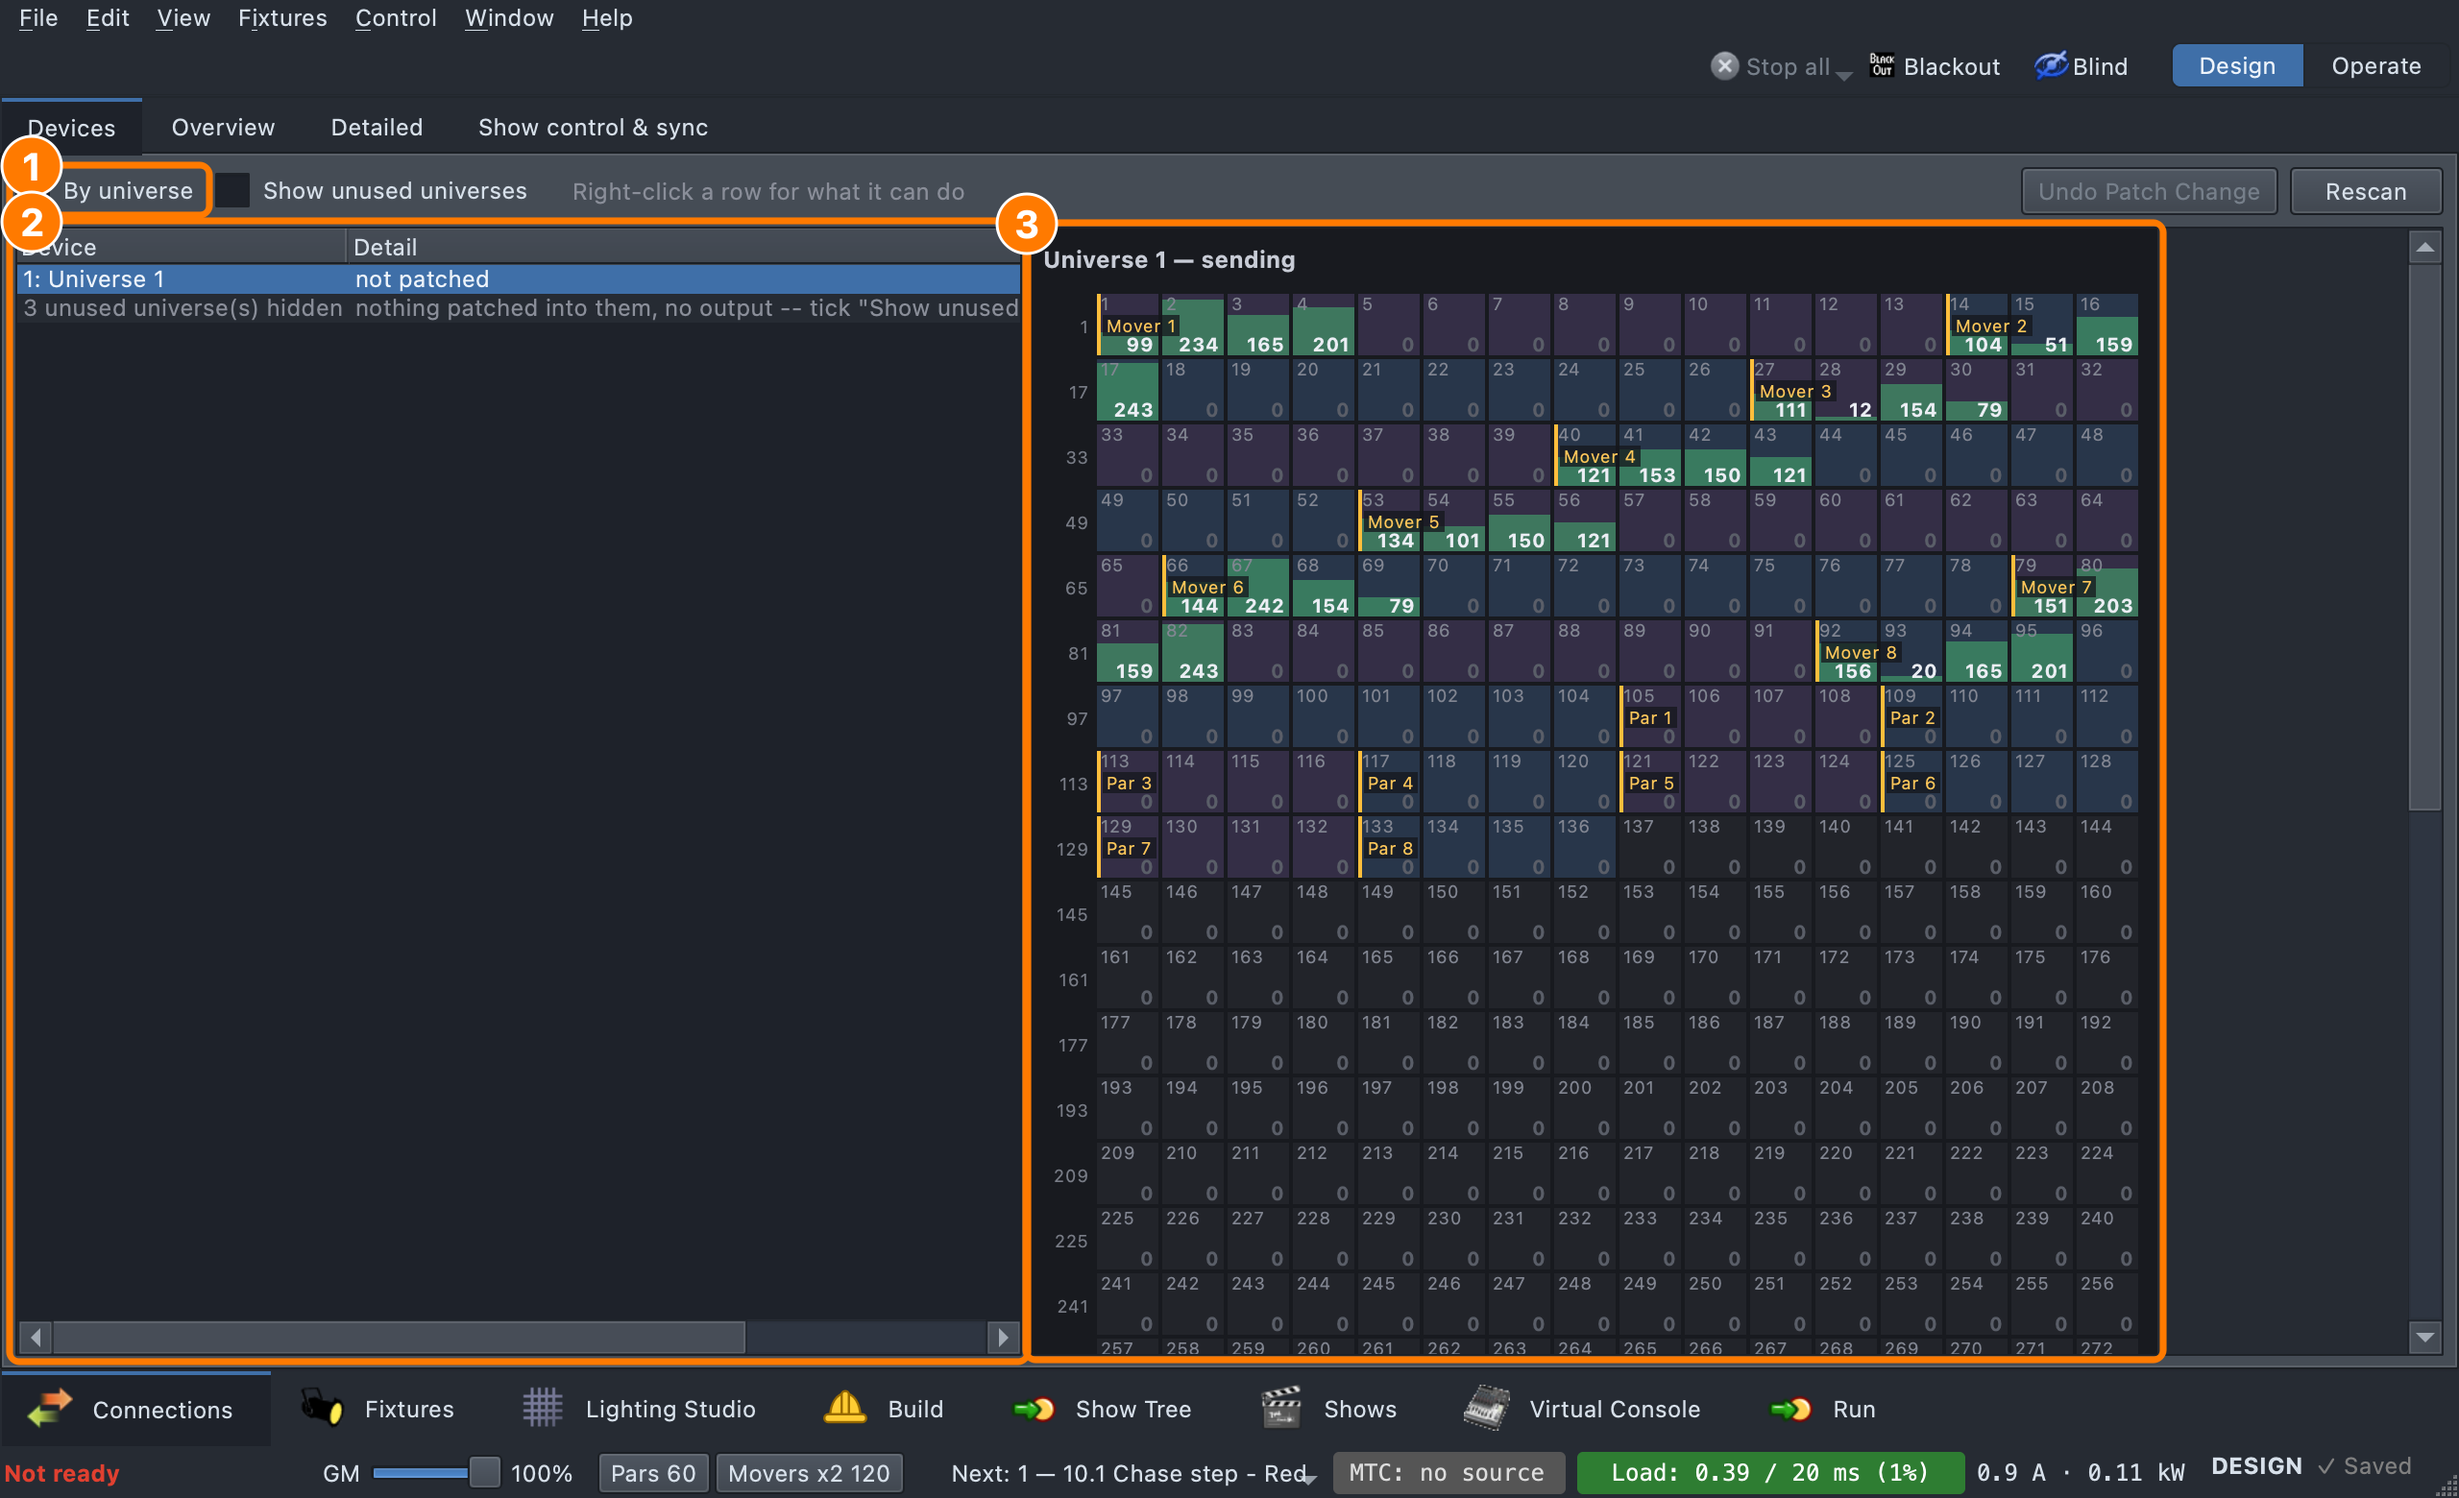
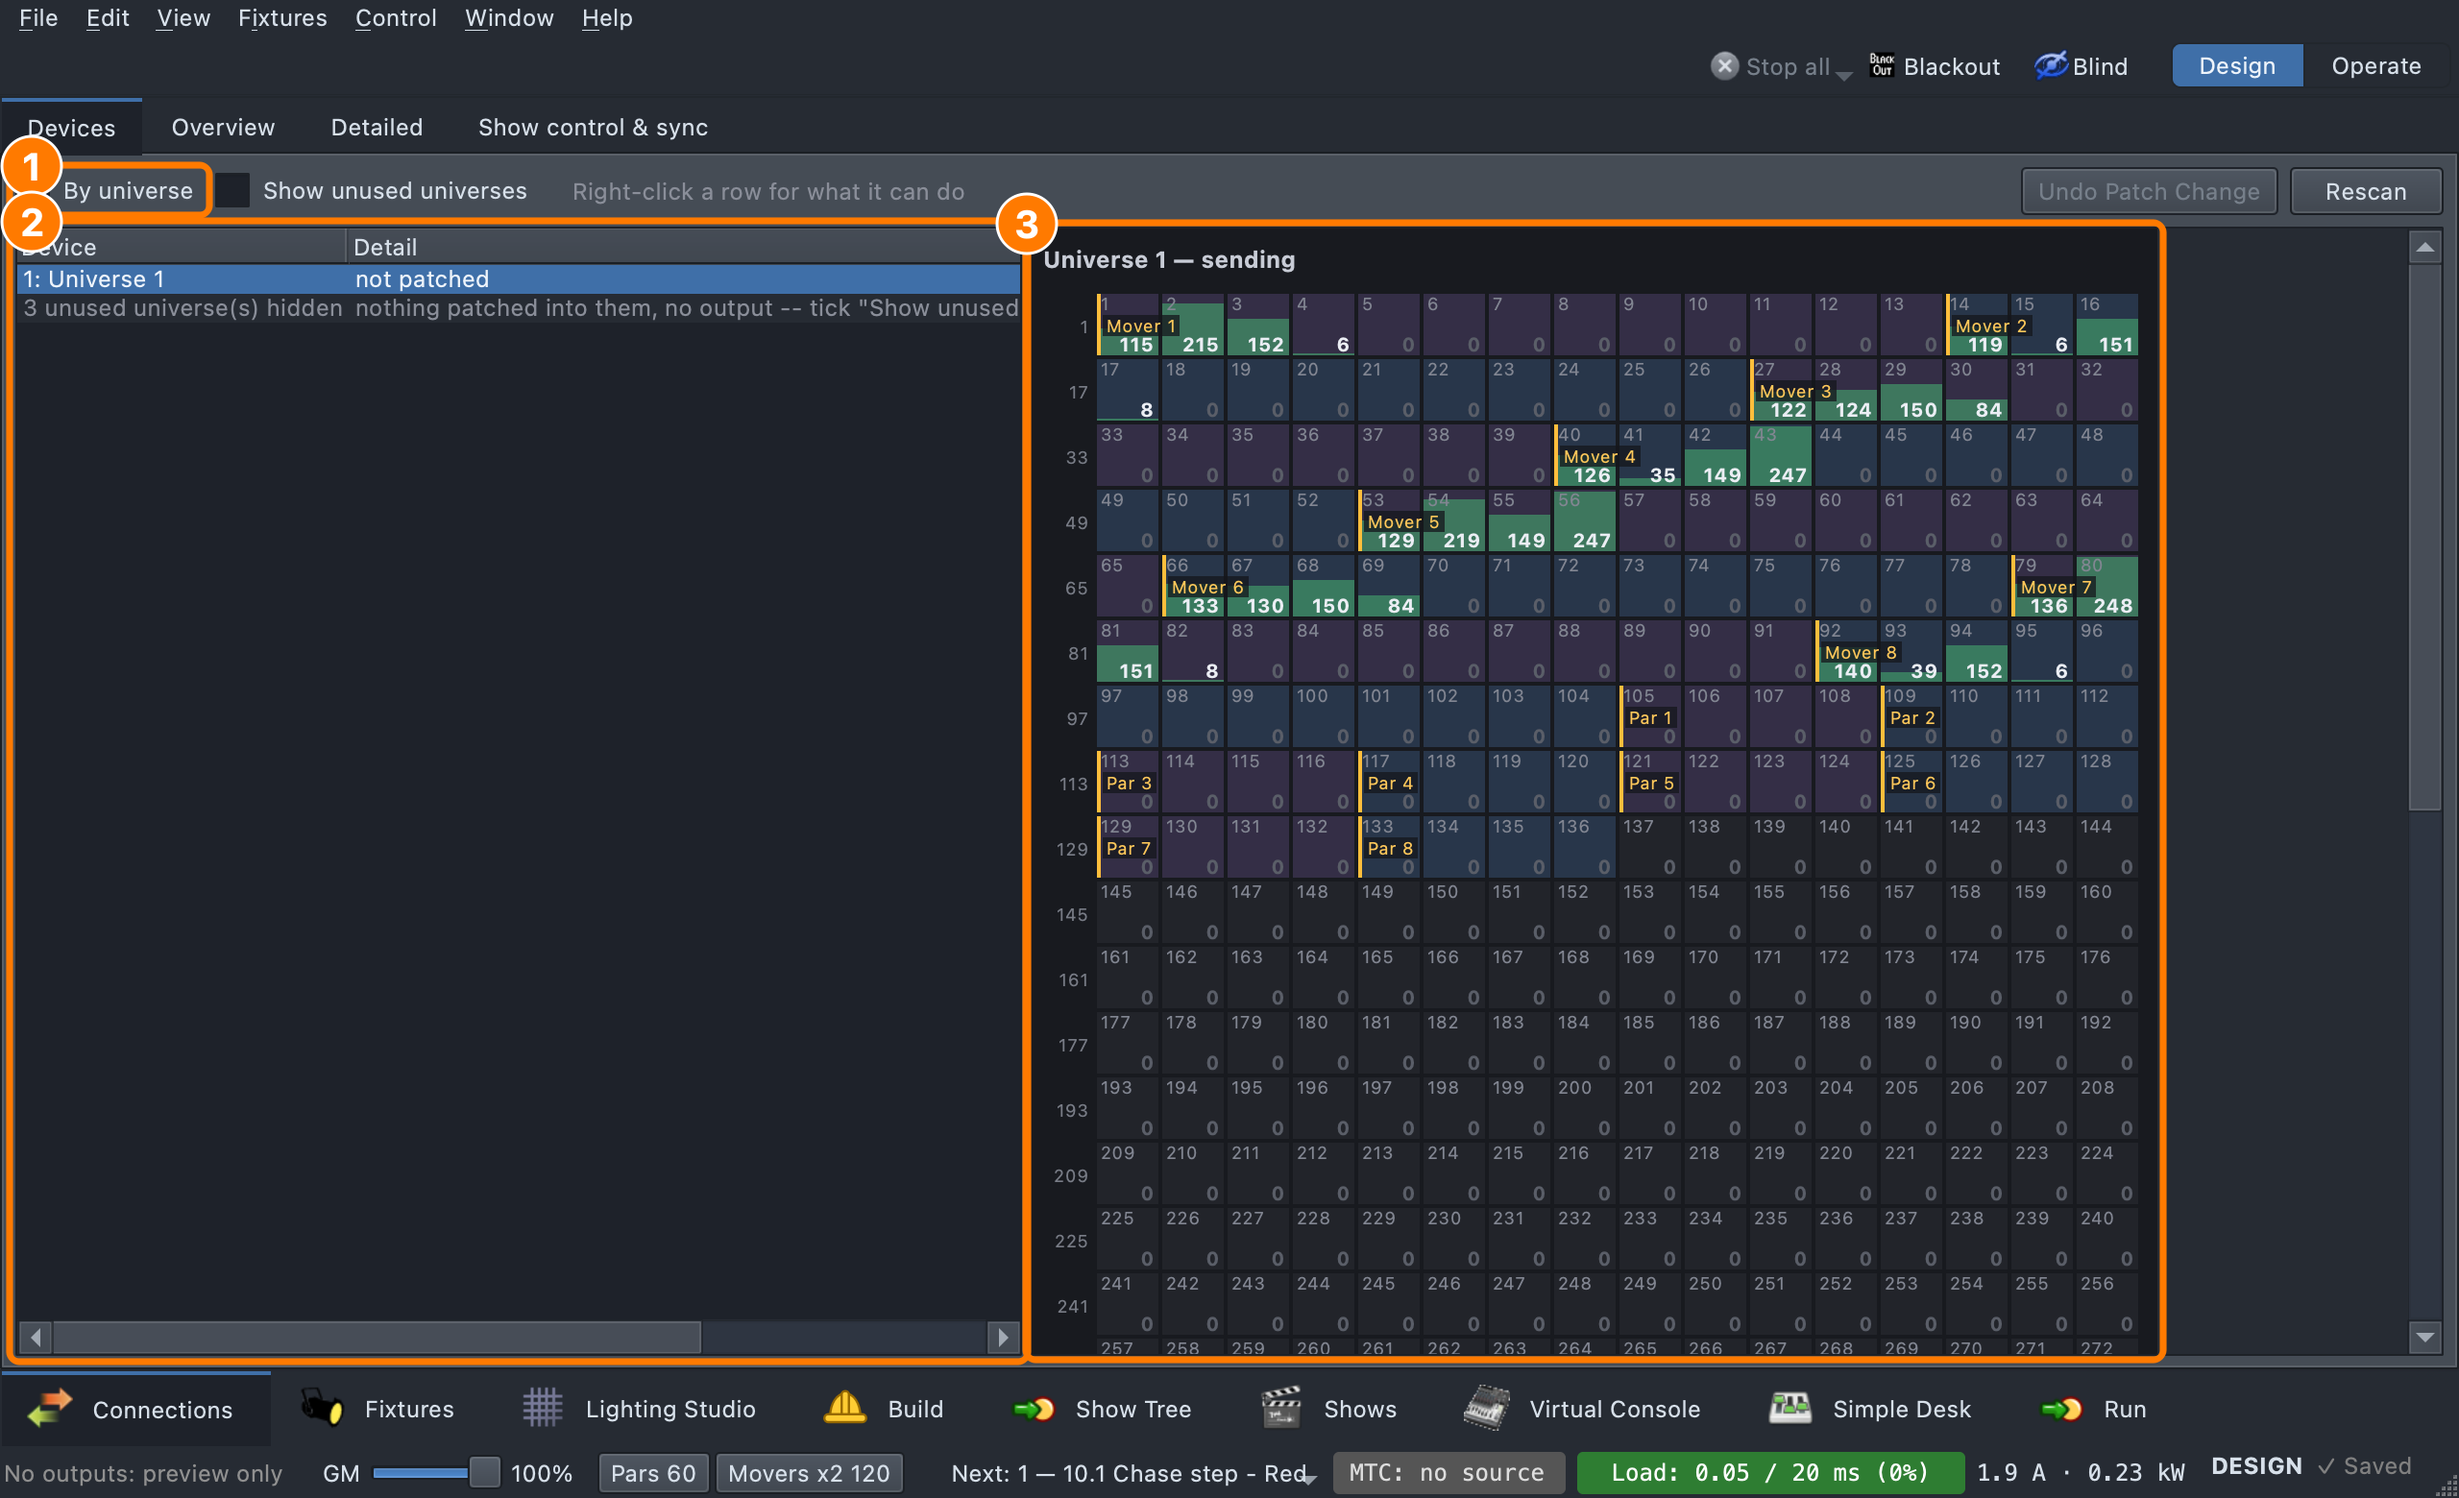
Help pictures: Loopback only, never this machine's network (QLC_IOPLUGIN_DIR)
help-shots.sh loads only the Loopback I/O plugin through a new
QLC_IOPLUGIN_DIR override, so the Connections pictures no longer show the
host's interfaces and addresses, Art-Net nodes' MAC addresses or MIDI
ports. Both Connections pictures retaken.

diff --git a/ui/src/app.cpp b/ui/src/app.cpp
@@ -1317,7 +1317,12 @@ void App::initDoc()
         if (m_startupWindow != NULL)
             m_startupWindow->logDetail(name);
     });
-    m_doc->ioPluginCache()->load(IOPluginCache::systemPluginDirectory());
+    /* QLC_IOPLUGIN_DIR: load the I/O plugins from there instead. The help
+       pictures use it (help-shots.sh) so they show generic Loopback lines,
+       never this machine's network, nodes or MIDI ports. */
+    const QString ioPluginDir = QString::fromLocal8Bit(qgetenv("QLC_IOPLUGIN_DIR"));
+    m_doc->ioPluginCache()->load(ioPluginDir.isEmpty() ? IOPluginCache::systemPluginDirectory()
+                                                       : QDir(ioPluginDir));
     /* Outputs in trouble -- WLED devices that stop answering or fade to a
        weak signal, Art-Net / E1.31 outputs that can't send, Art-Net nodes
        that stop answering: the footer, whichever plugin says so. */
